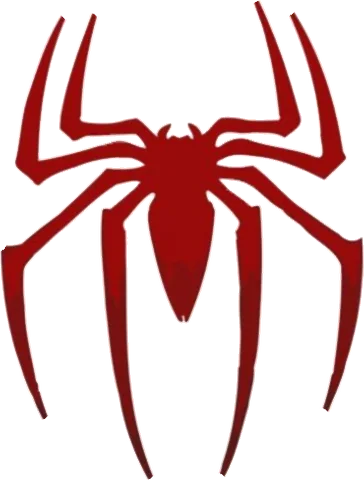
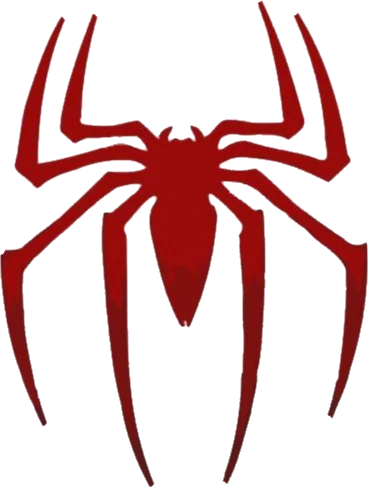
Smoother project files, working close button, cleaner stickers
- Opened project files grow to fit their description instead of
  scrolling inside a rotated 3D box
- Close (x) now works: only the side facing you takes clicks, plus Esc
  and click-outside to close
- Strip the white die-cut borders from the Spidey, cherry, spider, pool
  ball and star stickers
- Drop the badly cut chrome star, the cassette and the heart clipping;
  SynCode -> spidey profile, F1 -> felt star, reading -> wax rose
- Rename the work tab to projects, remove the that's-me caption

Claude-Session: https://claude.ai/code/session_019BapeqXTDVMy3j5RTJMNhi

diff --git a/main.js b/main.js
@@ -48,9 +48,9 @@
     { s: "hibiscus-red", x: 12, y: 93, w: 14, d: 60,  a: "bob", r: 12 },
     { s: "kiss",         x: 32, y: 88, w: 9,  d: 140, a: "bob", r: -14, sm: true },
     { s: "star-silver",  x: 43, y: 93, w: 6,  d: 260, a: "spin3d" },
-    { s: "star-chrome",  x: 68, y: 87, w: 9,  d: 230, a: "spin3d" },
+    { s: "star-felt",    x: 68, y: 87, w: 9,  d: 230, a: "spin3d" },
     { s: "cherries",     x: 83, y: 74, w: 11, d: 200, a: "bob", r: 8 },
-    { s: "cassette",     x: 86, y: 45, w: 8,  d: 40,  a: "bob", r: 14, sm: true },
+    { s: "ball-7",       x: 86, y: 45, w: 8,  d: 40,  a: "bob", r: 14, sm: true },
     { s: "web-heart",    x: 74, y: 60, w: 7,  d: 300, a: "bob", sm: true },
     { s: "tulips",       x: 36, y: 8,  w: 9,  d: 80,  a: "bob", r: -12, sm: true },
     { s: "ticket-lucky", x: 88, y: 92, w: 11, d: 110, r: -8, sm: true },
@@ -61,7 +61,7 @@
       { s: "butterfly",      x: 97, y: 5,  w: 96,  d: 70, a: "flap" },
       { s: "ribbon",         x: 2,  y: 2,  w: 70,  d: 30, r: -10 },
       { s: "hibiscus-cream", x: -2, y: 92, w: 130, d: 50, a: "bob" },
-      { s: "wax-rose",       x: 95, y: 95, w: 84,  d: 90, r: 10 },
+      { s: "locket-open",    x: 95, y: 95, w: 96,  d: 90, r: 10 },
     ],
     work: [
       { s: "spidey-headphones", x: 96, y: 1,  w: 120, d: 90, a: "bob", r: 8 },
@@ -149,10 +149,11 @@
             <button class="file-btn" data-flip aria-label="Open the ${proj.name} file">open file <span>&rarr;</span></button>
           </div>
           <div class="face face-back">
-            <div class="back-top"><span class="file-num sm">${num}</span><span class="back-name">${proj.name}</span>
+            <div class="back-inner"><div class="back-top"><span class="file-num sm">${num}</span><span class="back-name">${proj.name}</span>
               <button class="file-close" data-flip aria-label="Close the ${proj.name} file">&times;</button></div>
             <ul class="file-points">${proj.points.map((x) => `<li>${x}</li>`).join("")}</ul>
             <a class="file-link" href="${proj.repo}" target="_blank" rel="noopener">${ICONS.github} view on github <span>&rarr;</span></a>
+            </div>
           </div>
         </div>`;
       pg.appendChild(card);
@@ -337,16 +338,43 @@
   //  Project files: hover tilt + click to flip open
   // ----------------------------------------------------------
   function files() {
-    $$(".file").forEach((card) => {
+    const cards = $$(".file");
+    // The card grows to fit its description instead of scrolling inside a 3D box.
+    const backHeight = (card) => {
+      const back = $(".face-back", card), cs = getComputedStyle(back);
+      return $(".back-inner", card).offsetHeight + parseFloat(cs.paddingTop) + parseFloat(cs.paddingBottom);
+    };
+    const setOpen = (card, open) => {
+      if (card.classList.contains("flipped") === open) return;
+      const flip = $(".file-flip", card), front = $(".face-front", card);
+      if (open) {
+        card.dataset.frontH = front.offsetHeight;
+        flip.style.height = card.dataset.frontH + "px";
+        card.classList.add("flipped");
+        requestAnimationFrame(() => (flip.style.height = Math.max(+card.dataset.frontH, backHeight(card)) + "px"));
+      } else {
+        flip.style.height = card.dataset.frontH + "px";
+        card.classList.remove("flipped");
+        setTimeout(() => { if (!card.classList.contains("flipped")) flip.style.height = ""; }, 750);
+      }
+      const focusTarget = open ? $(".file-close", card) : $(".file-btn", card);
+      setTimeout(() => focusTarget.focus({ preventScroll: true }), 350);
+    };
+    cards.forEach((card) => {
       card.addEventListener("click", (e) => {
         if (e.target.closest("a")) return;
-        if (e.target.closest("[data-flip]") || !card.classList.contains("flipped")) {
-          card.classList.toggle("flipped");
-          const focusTarget = card.classList.contains("flipped") ? $(".file-close", card) : $(".file-btn", card);
-          setTimeout(() => focusTarget.focus({ preventScroll: true }), 350);
-        }
+        const flipped = card.classList.contains("flipped");
+        if (e.target.closest(".file-close")) setOpen(card, false);
+        else if (!flipped) setOpen(card, true);
       });
     });
+    // Esc or a click outside closes any open file
+    document.addEventListener("keydown", (e) => { if (e.key === "Escape") cards.forEach((c) => setOpen(c, false)); });
+    document.addEventListener("click", (e) => { cards.forEach((c) => { if (!c.contains(e.target)) setOpen(c, false); }); });
+    addEventListener("resize", () => cards.forEach((c) => {
+      if (!c.classList.contains("flipped")) return;
+      $(".file-flip", c).style.height = Math.max(+c.dataset.frontH, backHeight(c)) + "px";
+    }));
     tiltCards($$(".file"), 9);
     tiltCards($$("[data-tilt-card]"), 14);
   }

diff --git a/styles.css b/styles.css
@@ -330,7 +330,6 @@ main { position: relative; z-index: 1; padding: 90px 0 40px; }
 }
 .polaroid img { width: 100%; height: 100%; object-fit: cover; }
 .slot-hint { font-family: var(--hand); font-size: 1.3rem; color: #9a8478; }
-.polaroid-cap { position: absolute; left: 0; right: 0; bottom: 3%; text-align: center; font-family: var(--hand); font-size: 1.4rem; color: var(--maroon); transform: translateZ(30px) rotate(-3deg); }
 .about-text p { margin-bottom: 1.1em; font-size: 1.02rem; }
 .about-text p:first-child::first-letter { font-family: var(--script); font-size: 4.2em; float: left; line-height: 0.8; margin: 0.08em 0.1em 0 0; color: var(--rose); }
 
@@ -350,7 +349,7 @@ main { position: relative; z-index: 1; padding: 90px 0 40px; }
 .ticket-meta { font-family: var(--type); font-size: 0.78rem !important; margin-top: 4px; }
 
 /* ---------- WORK: 3D flip files ---------- */
-.files { display: grid; grid-template-columns: repeat(2, 1fr); gap: 46px 34px; }
+.files { display: grid; grid-template-columns: repeat(2, 1fr); gap: 46px 34px; align-items: start; }
 .file {
   --rx: 0deg; --ry: 0deg;
   position: relative; perspective: 1400px; padding-top: 26px; cursor: pointer;
@@ -364,11 +363,15 @@ main { position: relative; z-index: 1; padding: 90px 0 40px; }
 .file-flip {
   position: relative; display: grid; transform-style: preserve-3d;
   transform: rotateX(var(--rx)) rotateY(var(--ry));
-  transition: transform 0.3s var(--ease);
+  transition: transform 0.3s var(--ease), height 0.7s var(--ease);
 }
-.file.flipped .file-flip { transform: rotateX(calc(var(--rx) * 0.4)) rotateY(calc(180deg + var(--ry) * 0.4)); transition: transform 0.9s var(--spring); }
-.file:not(.flipped) .file-flip { transition: transform 0.9s var(--spring); }
-.file:hover:not(.flipped) .file-flip, .file:hover .file-tab { transition-duration: 0.25s; }
+.file.flipped .file-flip { transform: rotateX(calc(var(--rx) * 0.4)) rotateY(calc(180deg + var(--ry) * 0.4)); transition: transform 0.9s var(--spring), height 0.7s var(--ease); }
+.file:not(.flipped) .file-flip { transition: transform 0.9s var(--spring), height 0.7s var(--ease); }
+.file:hover:not(.flipped) .file-flip { transition: transform 0.25s var(--ease), height 0.7s var(--ease); }
+.file:hover .file-tab { transition-duration: 0.25s; }
+/* only the side facing you takes clicks (Safari hit-tests hidden backfaces) */
+.file.flipped .face-front, .file:not(.flipped) .face-back { pointer-events: none; }
+.file.flipped { cursor: auto; }
 .face {
   position: relative; grid-area: 1 / 1; border-radius: 4px 14px 14px 14px; padding: 30px 28px 26px; min-height: 470px;
   backface-visibility: hidden; -webkit-backface-visibility: hidden; transform-style: preserve-3d;
@@ -403,7 +406,7 @@ main { position: relative; z-index: 1; padding: 90px 0 40px; }
 .file-btn span { display: inline-block; transition: transform 0.3s; }
 .file:hover .file-btn span { transform: translateX(5px); }
 .face-back {
-  position: absolute; inset: 0; overflow-y: auto; overscroll-behavior: contain; scrollbar-width: thin; scrollbar-color: var(--pink) transparent;
+  position: absolute; inset: 0; overflow: hidden;
   transform: rotateY(180deg); background: var(--paper); color: var(--ink);
   background-image: repeating-linear-gradient(transparent 0 27px, rgba(184,92,110,0.18) 27px 28px);
   border-left: 8px solid var(--c);

diff --git a/index.html b/index.html
@@ -67,7 +67,7 @@
        ============================================================ -->
   <nav class="tabs" id="tabs" aria-label="Sections">
     <a class="tab" href="#about"      data-tab="about">about me</a>
-    <a class="tab" href="#work"       data-tab="work">work</a>
+    <a class="tab" href="#work"       data-tab="work">projects</a>
     <a class="tab" href="#skills"     data-tab="skills">skills</a>
     <a class="tab" href="#experience" data-tab="experience">experience</a>
     <a class="tab" href="#interests"  data-tab="interests">interests</a>
@@ -88,7 +88,6 @@
           <div class="about-photo">
             <img class="about-clip" src="assets/stickers/lace-frame.webp" alt="" aria-hidden="true" />
             <div class="polaroid" data-slot="about"><span class="slot-hint">your photo here</span></div>
-            <span class="polaroid-cap">that's me &hearts;</span>
           </div>
           <div class="about-text">
             <div id="about-text"></div>
@@ -104,7 +103,7 @@
         <div class="page-stickers" data-stickers="work" aria-hidden="true"></div>
         <div class="page-head">
           <span class="eyebrow">02 &mdash; some of my</span>
-          <h2 class="script-title">featured works</h2>
+          <h2 class="script-title">featured projects</h2>
           <p class="page-sub">Stuff I designed &amp; built &mdash; mostly from scratch, often offline-first, always a little ambitious. <b>Open a file</b> to peek inside.</p>
         </div>
         <div class="files" id="projects-grid"></div>

diff --git a/data.js b/data.js
@@ -137,7 +137,7 @@ const DATA = {
     },
     {
       name: "SynCode",
-      sticker: "cassette",
+      sticker: "spidey-profile",
       color: "#c9bca8",
       blurb: "Collaborative Code Editor",
       stack: ["React", "Monaco", "Node.js", "Express", "Socket.io"],
@@ -197,9 +197,9 @@ const DATA = {
   interests: [
     { icon: "guitar", sticker: "guitar", title: "guitar", note: "always learning a new song (badly, then well)" },
     { icon: "music", sticker: "vinyl-red",  title: "music",  note: "a playlist for every mood & every project" },
-    { icon: "flag", sticker: "star-chrome",   title: "formula 1", note: "lights out and away we go — every sunday" },
+    { icon: "flag", sticker: "star-felt", title: "formula 1", note: "lights out and away we go — every sunday" },
     { icon: "tv", sticker: "camera",     title: "tv & film", note: "comfort rewatches + anything with a plot twist" },
     { icon: "spider", sticker: "spidey-hang", title: "spider-man", note: "the whole personality, honestly" },
-    { icon: "book", sticker: "heart-dictionary",   title: "reading", note: "fantasy, a bit of everything, cozy corners" },
+    { icon: "book", sticker: "wax-rose", title: "reading", note: "fantasy, a bit of everything, cozy corners" },
   ],
 };
